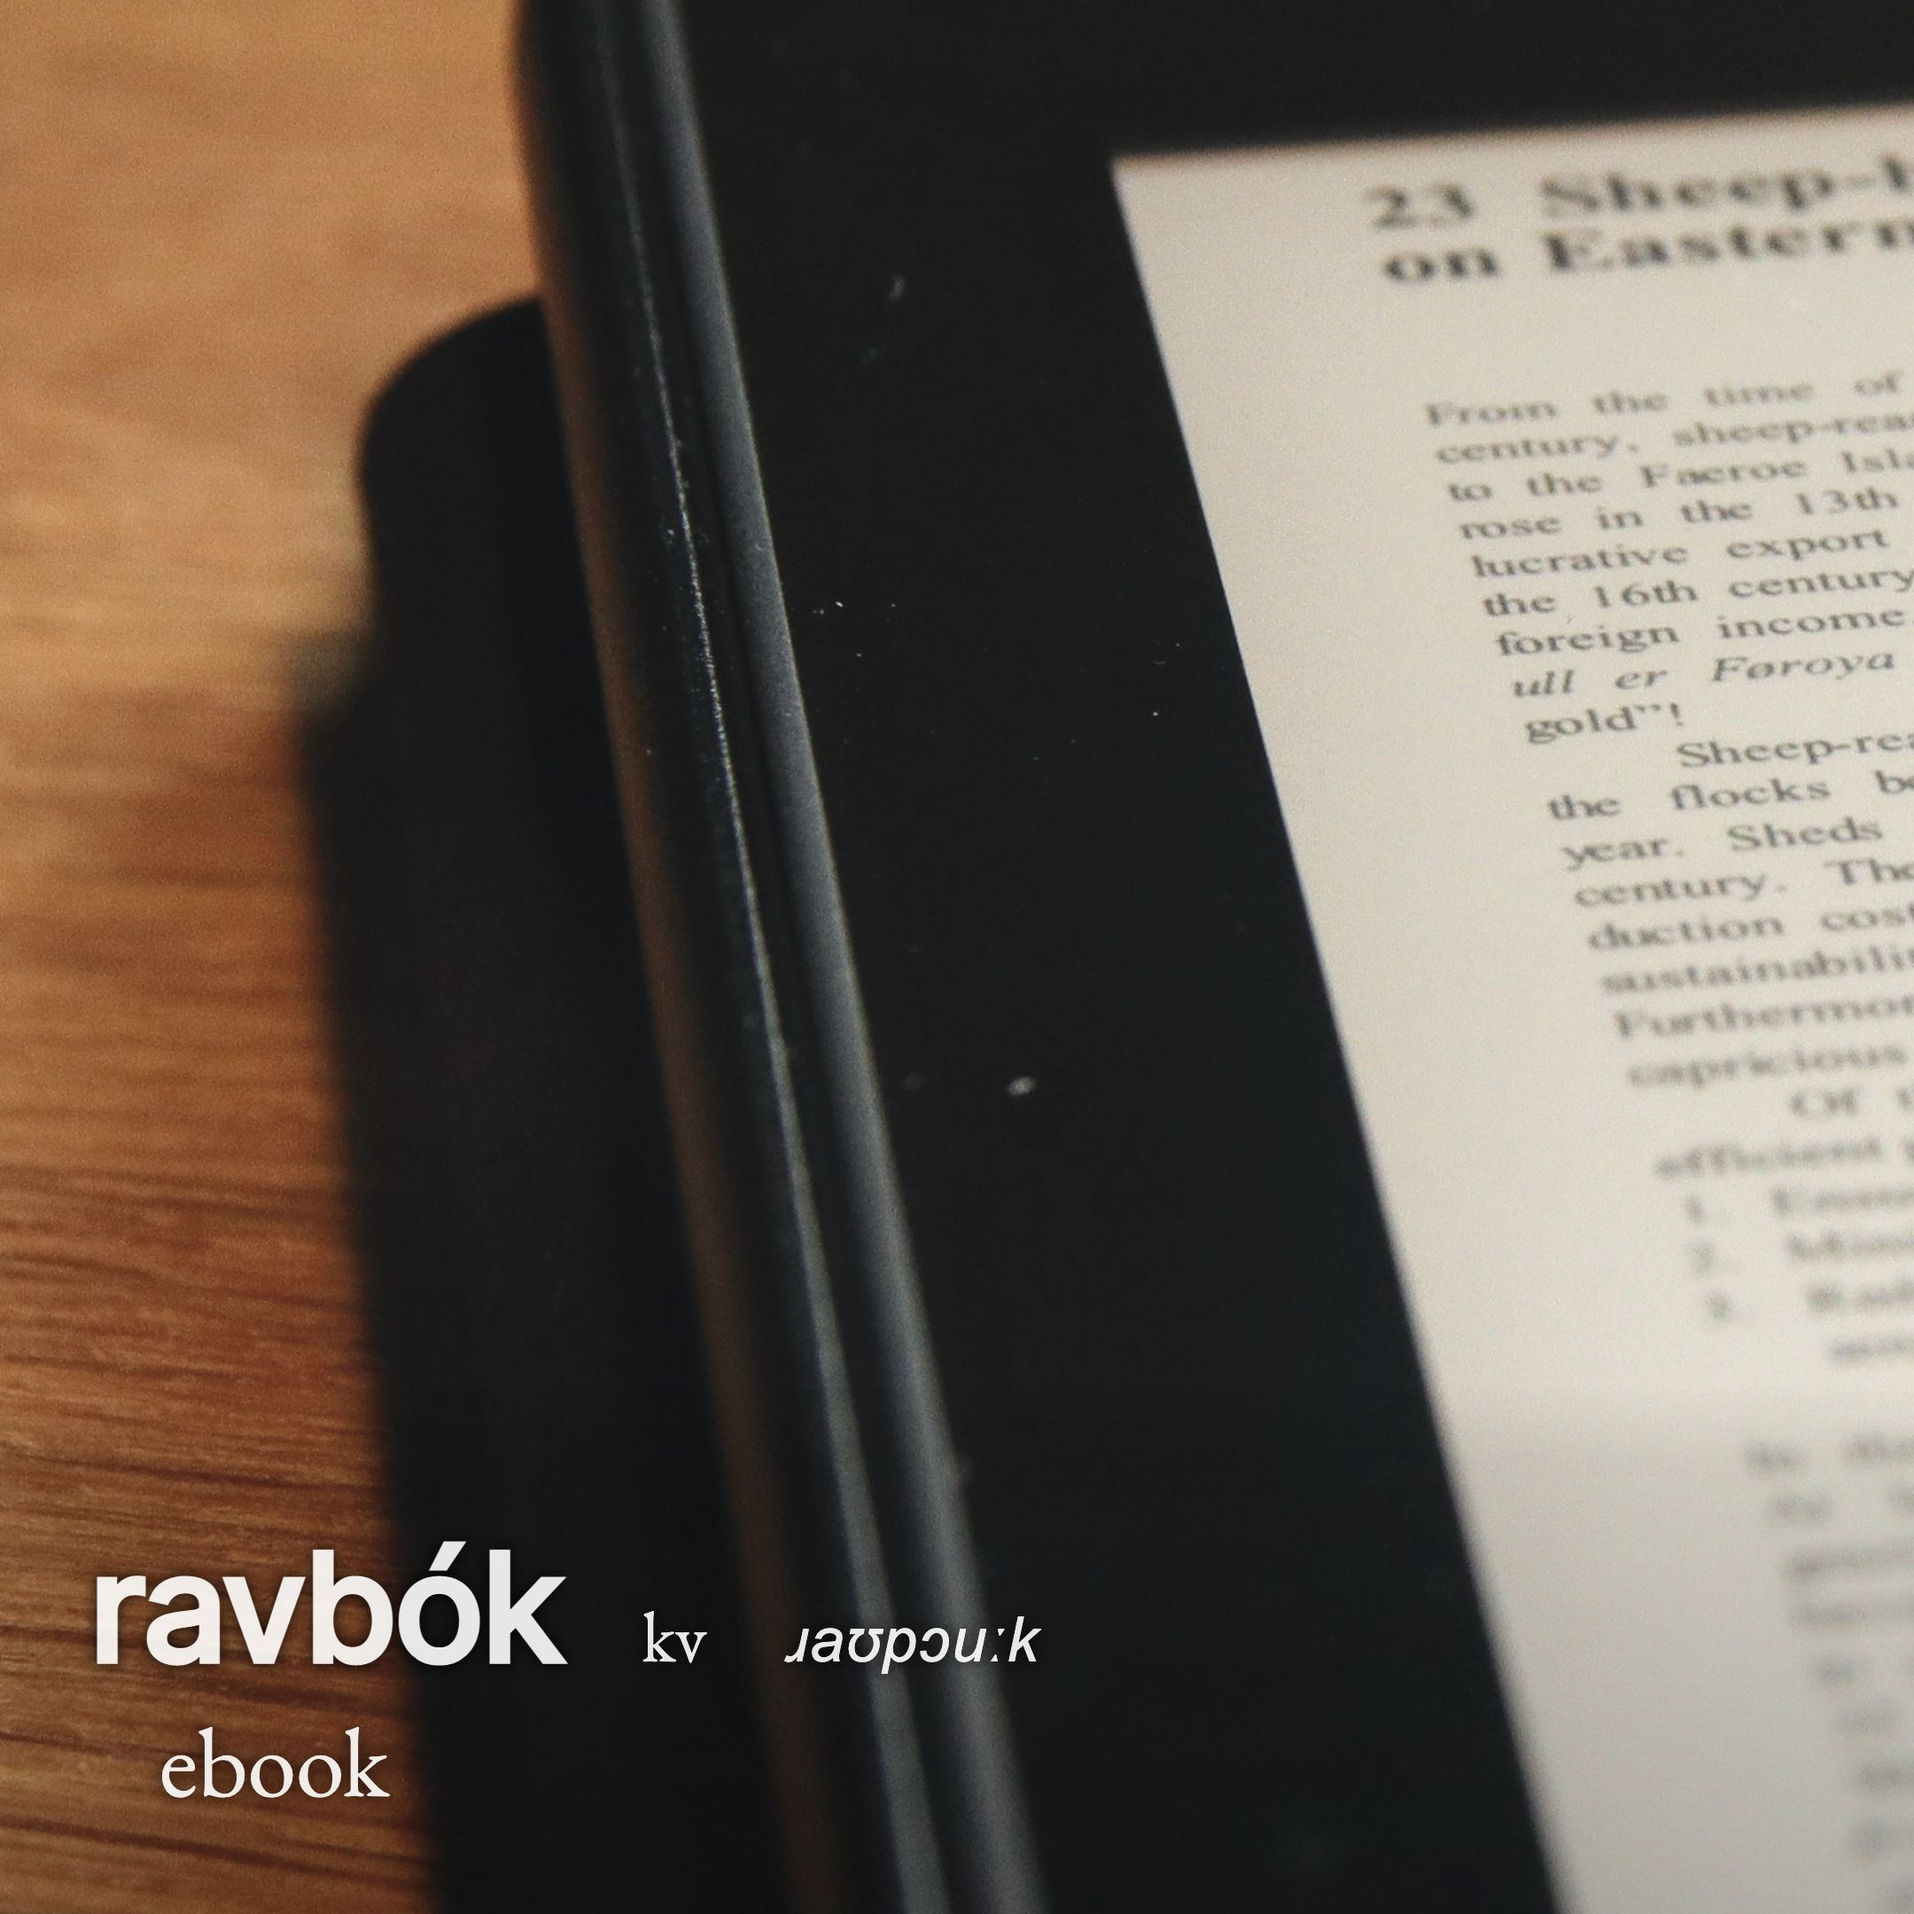
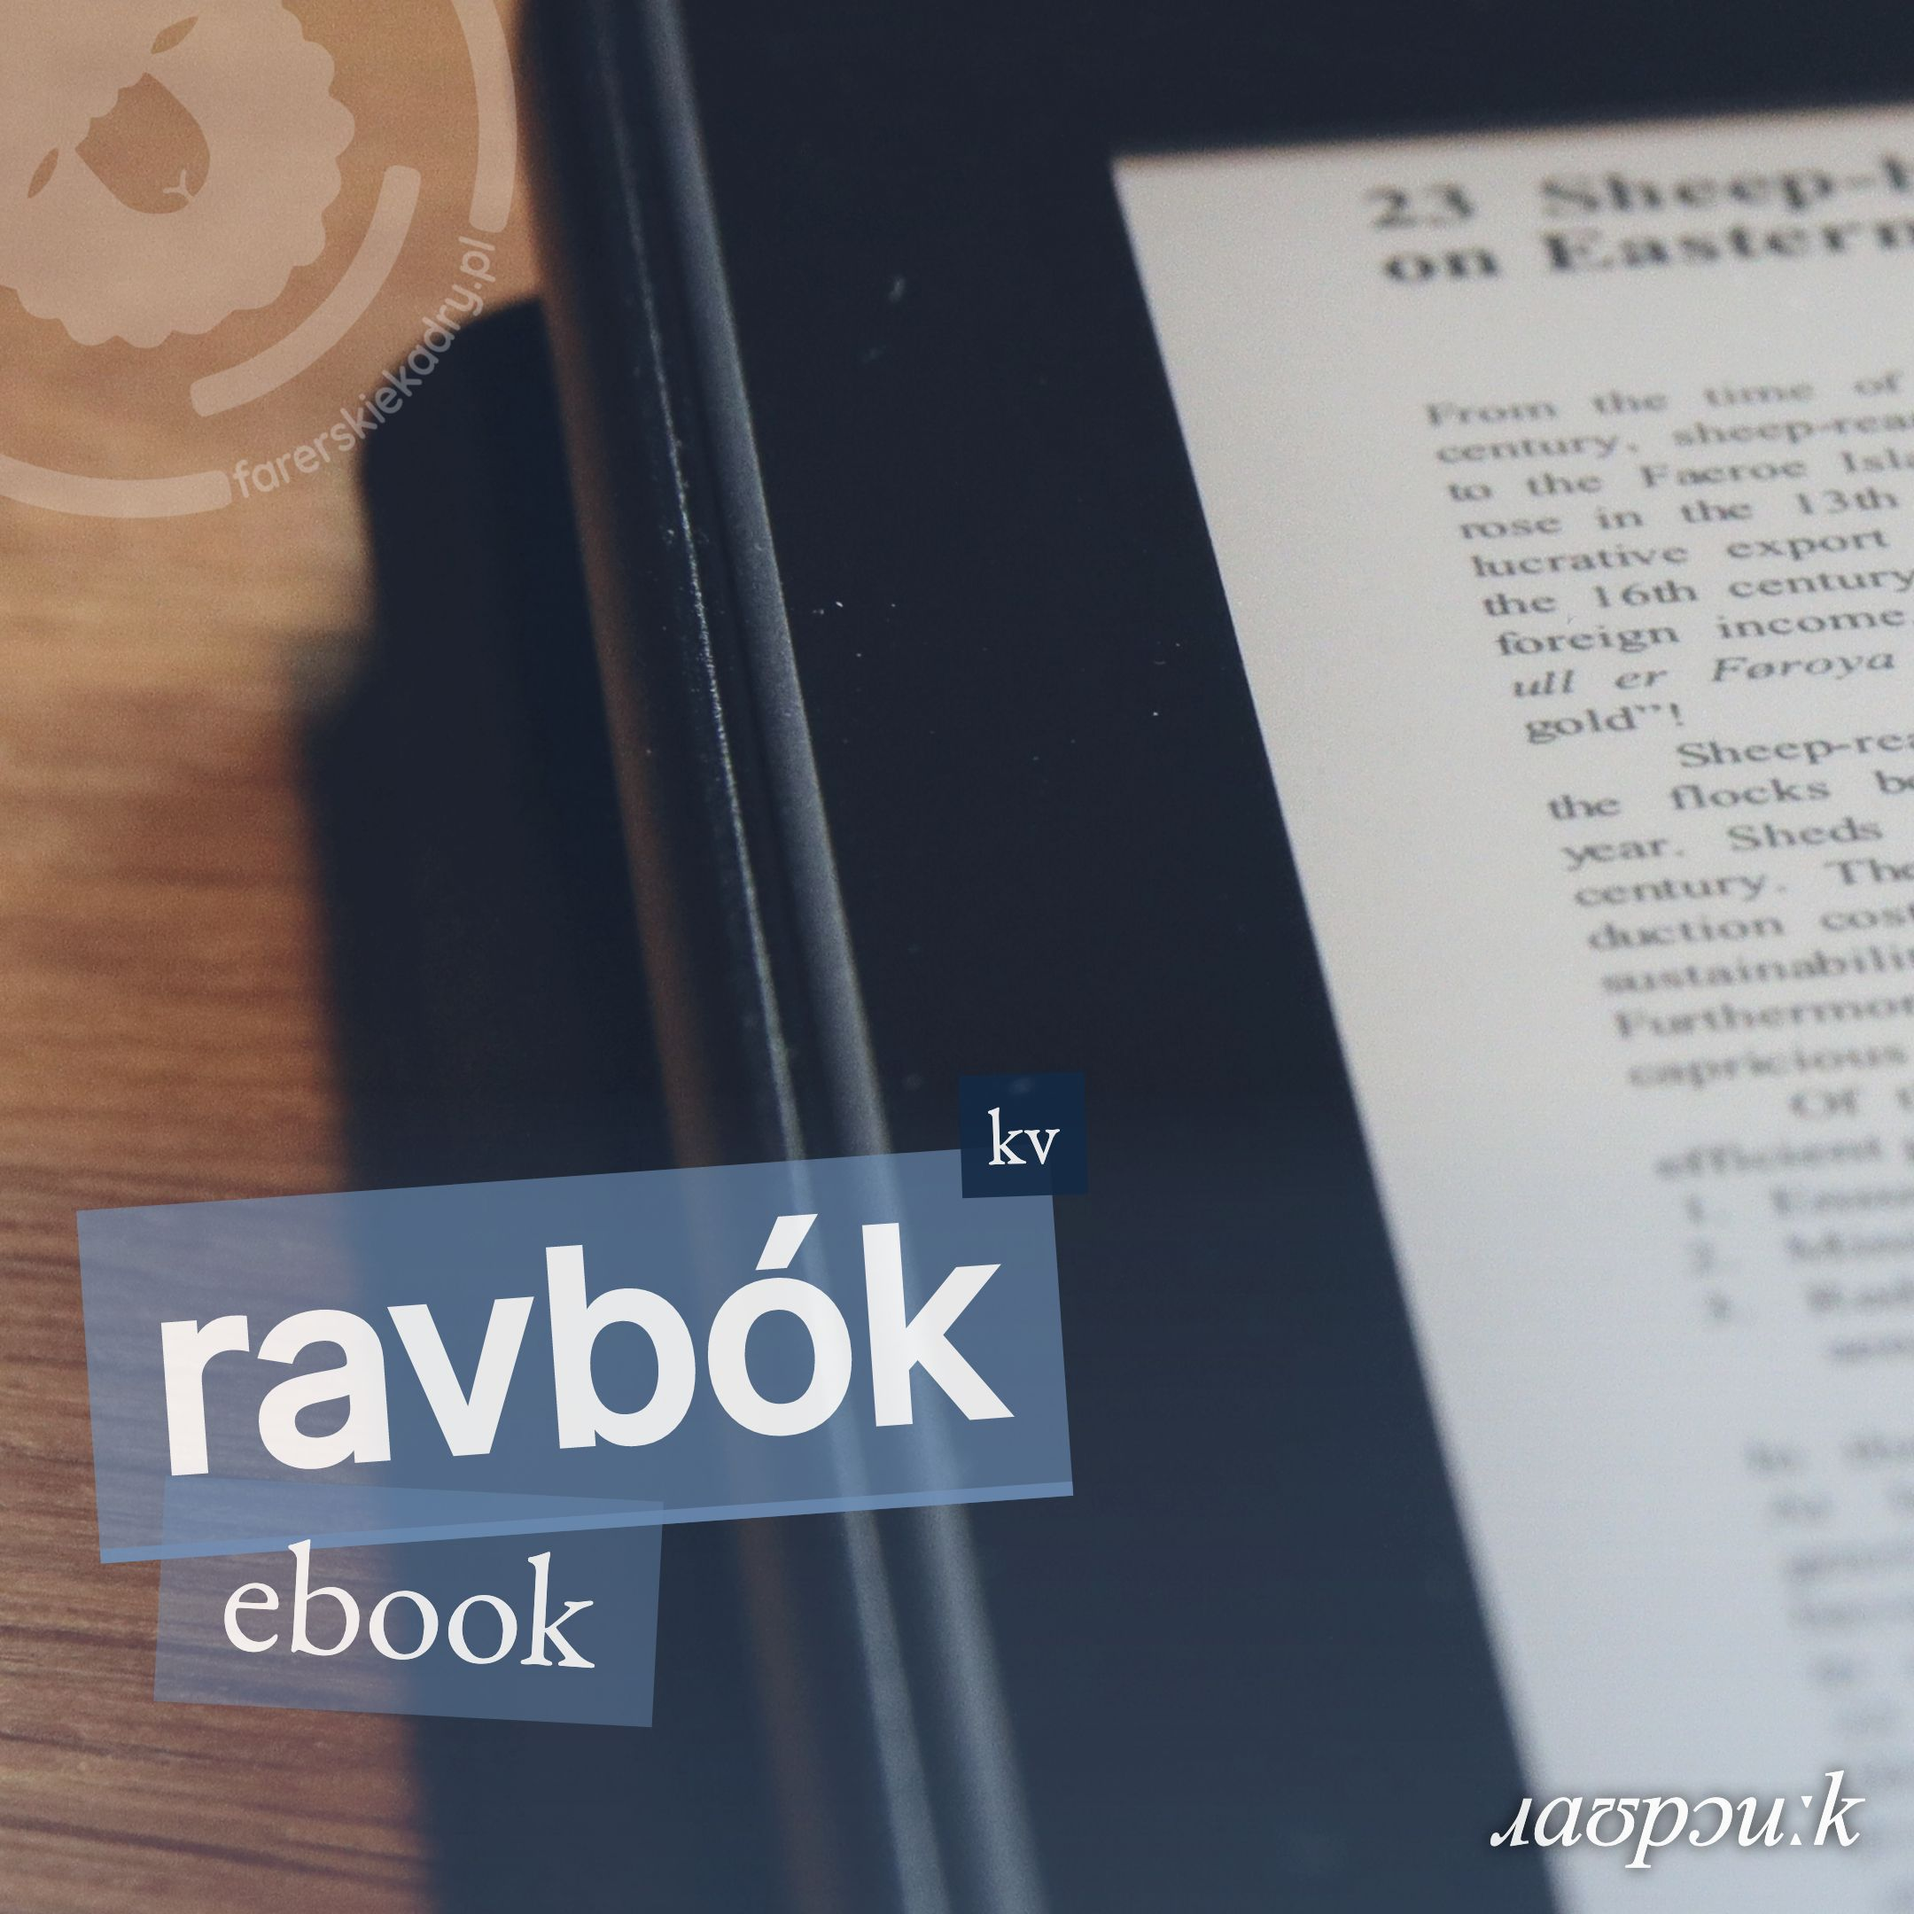
New instagram graphic layout

diff --git a/index.html b/index.html
@@ -161,16 +161,81 @@
 	}
 
 	/* 
+	 ********************************************************************************************************************************************
 Instagram landscape photo: 1080 x 608 px (1.91:1 ratio)
 At a standard width of 1080 pixels, Instagram keeps your photo its original size
 	 */
 	body.instagram #wrapper {
 		width: 1080px;
 		height: 1080px;
+		background-color: rgba(114, 149, 190, 1);	
+	}
+
+	body.instagram #logo {
+		filter: invert(1) opacity(0.3);
+		width: 450px;
+		position: absolute;
+		left: -150px;
+		top: -150px;
+		transform: rotate(-45deg);
+		display: block;
+	}
+
+	body.instagram #overlay {
+		opacity: 0.9;
 	}
 	
 	body.instagram dl {
 		width: 1080px;
+		padding-bottom: 120px;
+		text-shadow: none;
+		background: linear-gradient(180deg, rgba(114, 149, 190,0) 0%, rgba(114, 149, 190,0.1) 15%, rgba(114, 149, 190,.25) 100%);
+	}
+
+	body.instagram article dt {
+		transform: rotate(-4deg);
+		transform-origin: left;
+	}
+
+	body.instagram article dt em {
+		font-size: 150px;
+		background-color: rgba(114, 149, 190, .65);
+		padding: 5px 35px;
+		display: inline-block;
+		border-bottom: solid 8px rgba(114, 149, 190, .85);
+	}
+
+	body.instagram article dt .kind {
+		background-color: rgba(19, 43, 70, .9);
+		padding: 5px 15px;
+		display: inline-block;
+		font-size: 45px;
+		position: relative;
+		top: -140px;
+		left: -95px;
+		transform: rotate(2deg);
+	}
+
+	body.instagram article dd[lang="pl"] {
+		font-size: 90px;
+		background-color: rgba(114, 149, 190, .45);
+		padding: 5px 35px;
+		display: inline-block !important;
+		transform: rotate(3deg);
+		transform-origin: left;
+		margin-top: -50px;
+	}
+
+	body.instagram .ipa {
+		display: block;
+		position: absolute;
+		transform: rotate(4deg);
+		bottom: -235px;
+		right: 100px;
+		font-size: 60px;
+		font-family: 'Times New Roman', Times, serif;
+		letter-spacing: -1px;
+		text-shadow: 0 0 10px black;
 	}
 
 	body.instagram #map.leaflet-container {
